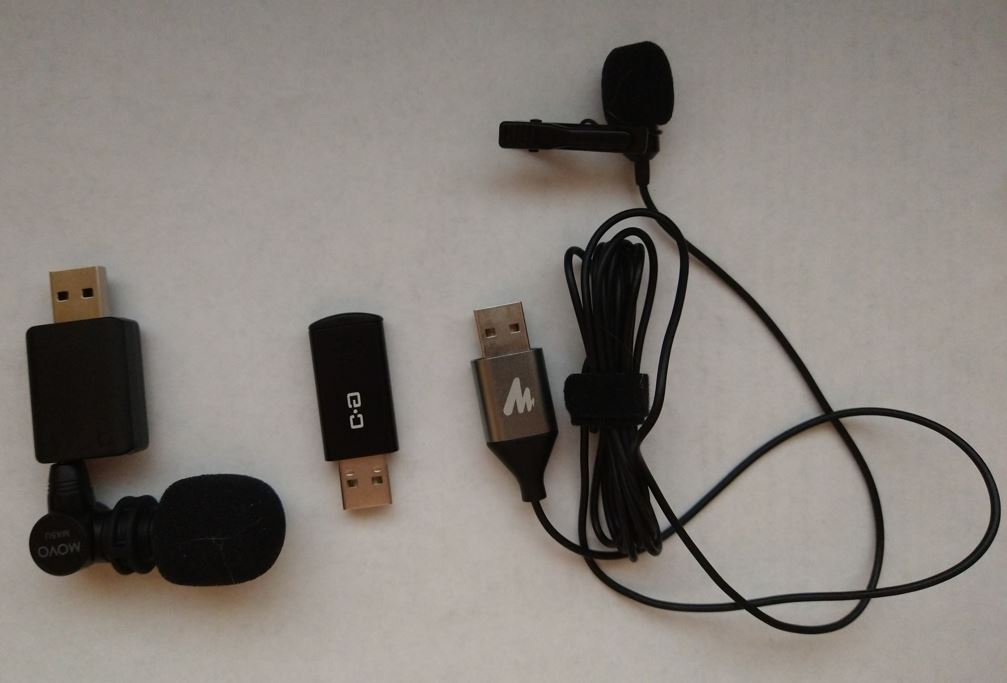
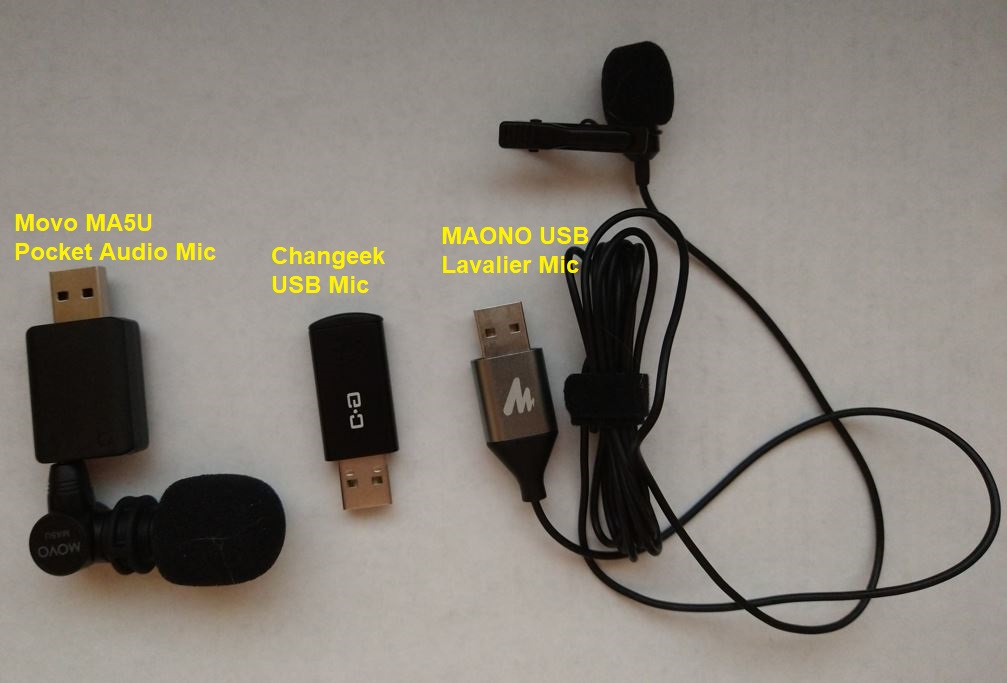
annotate images

Changed region(s): [[0.0, 0.3075, 0.2155, 0.3997], [0.431, 0.3075, 0.5849, 0.3997], [0.2463, 0.3382, 0.4002, 0.4305]]

diff --git a/cameras/pi-zero/large-display/software/README.md b/cameras/pi-zero/large-display/software/README.md
@@ -4,9 +4,9 @@
 
 ### Tested mics
 
-* MOVO MA5U pocket audio microphone (left)
-* DUNGDUZ CHANGEEK USB microphone (center)
-* Maono USB lavalier (right)
+* MOVO MA5U pocket audio microphone
+* DUNGDUZ CHANGEEK USB microphone
+* Maono USB lavalier
 
 <img src="./mics.JPG"/>
 
